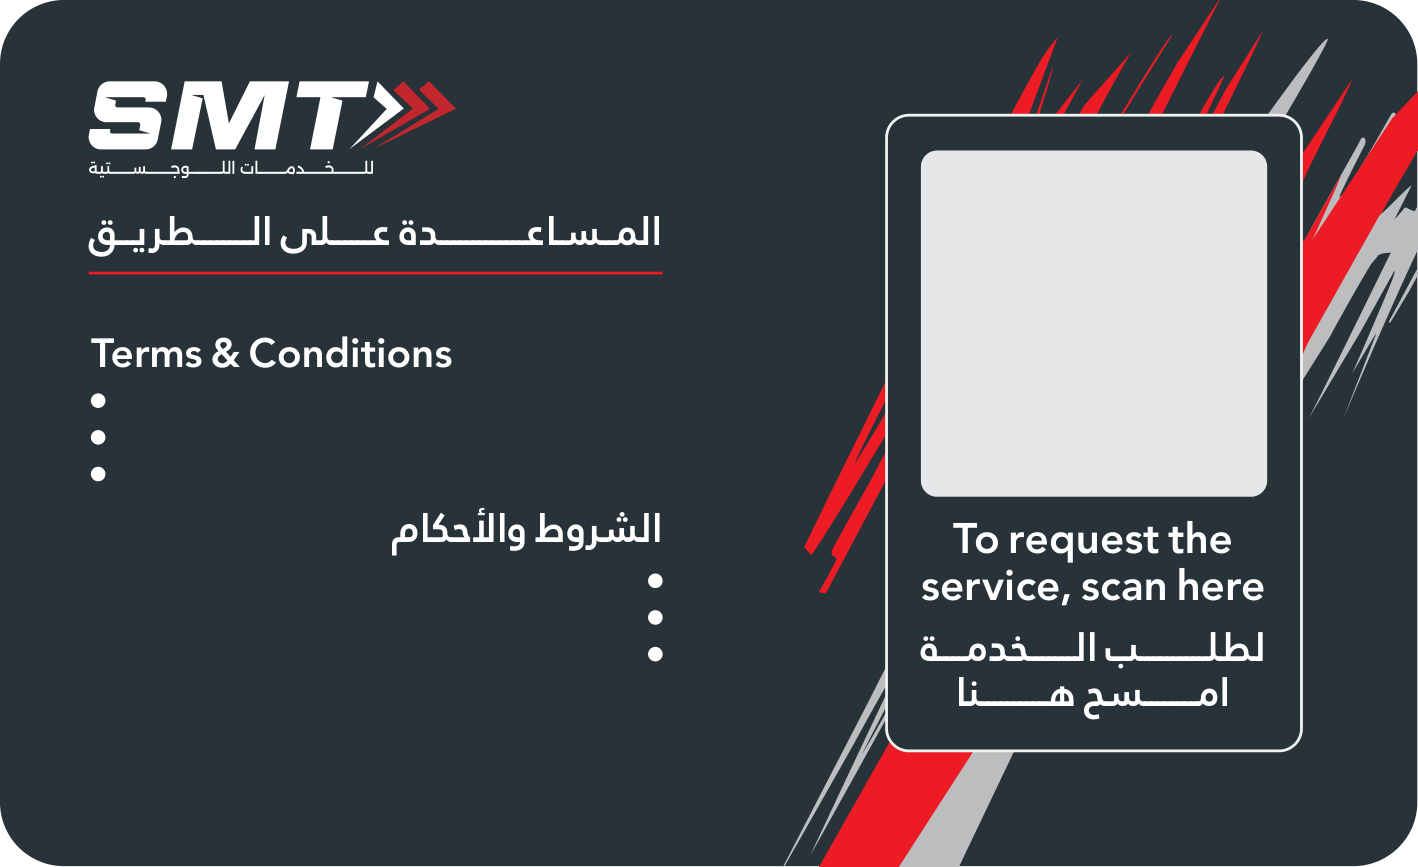
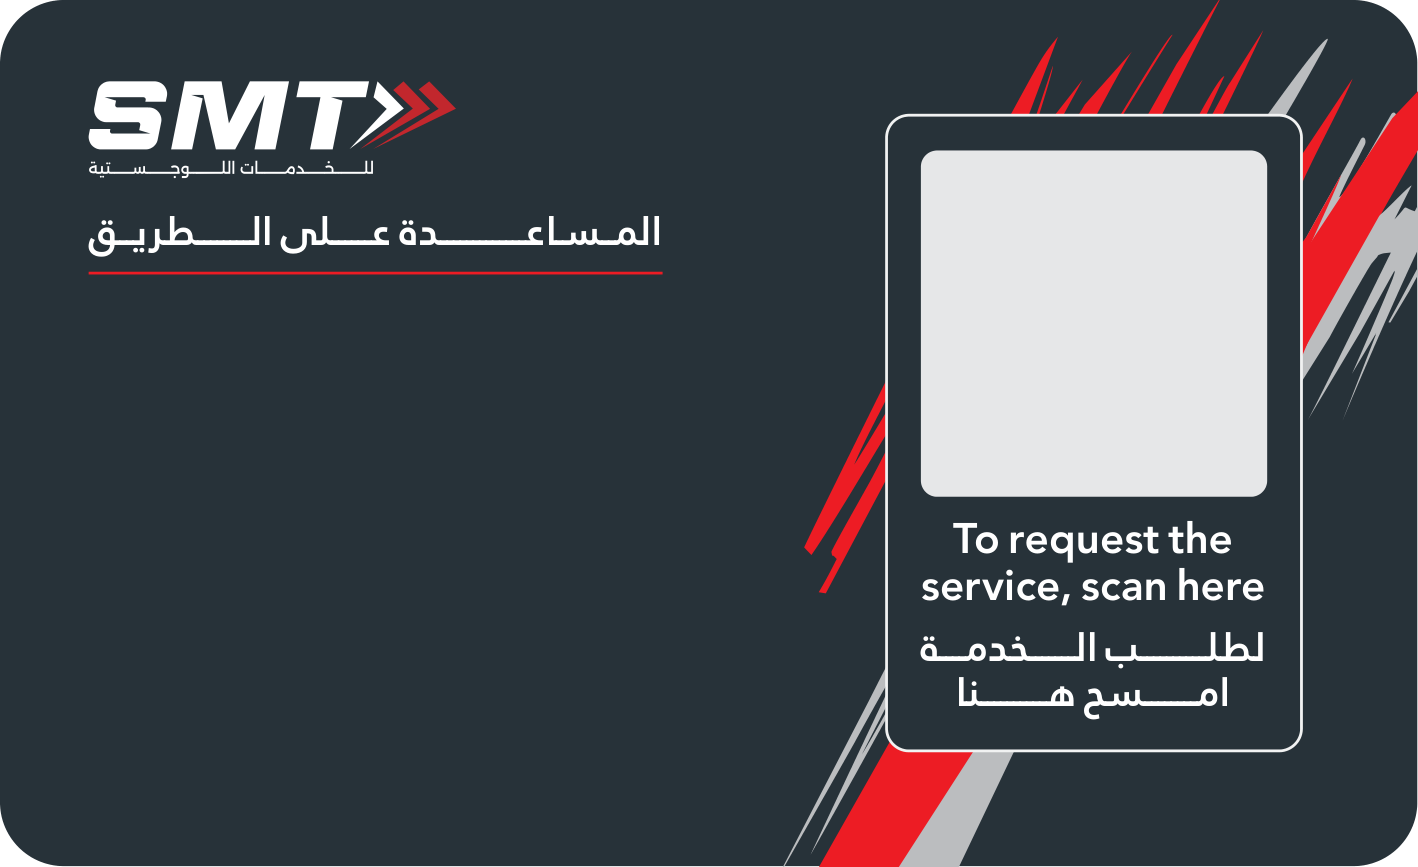
Add per-card bilingual terms to the printed card and a map button in JobBox
The card back now carries Terms & Conditions entered per card, one bullet per
line, in English, Arabic or both: each heading and its bullets are only printed
when that language has text, so a single-language card no longer prints an empty
heading over placeholder dots. The dots and both headings were baked into the
back artwork, so they are redacted out of the plate and drawn live instead, and
the block shrinks to fit when conditions are long. Both textareas are on every
card create/edit surface.

JobBox gains a pin button beside the Location field that unfolds the
cardholder's GPS point (with its accuracy) on an inline map plus a Google Maps
link — inline rather than a second modal, which Bootstrap does not support.
CARTO's basemaps now answer with an "API KEY REQUIRED" watermark, so both this
map and the request list's location modal switch to Esri's keyless tiles.

diff --git a/card/templates/cards/includes/mission_modal.html b/card/templates/cards/includes/mission_modal.html
@@ -50,8 +50,17 @@
                         <div class="row">
                             <div class="col-md-6 mb-3">
                                 <label for="from_location{{ request.pk }}" class="form-label fw-bold">Receiving Location</label>
-                                <input type="text" name="from_location" id="from_location{{ request.pk }}" class="form-control"
-                                       value="{% if request.mission %}{{ request.mission.from_location }}{% else %}{{ request.from_location }}{% endif %}">
+                                <div class="input-group">
+                                    <input type="text" name="from_location" id="from_location{{ request.pk }}" class="form-control"
+                                           value="{% if request.mission %}{{ request.mission.from_location }}{% else %}{{ request.from_location }}{% endif %}">
+                                    {% if request.latitude and request.longitude %}
+                                        <button type="button" class="btn btn-outline-info mission-map-btn" data-request="{{ request.pk }}"
+                                                data-lat="{{ request.latitude }}" data-lng="{{ request.longitude }}"
+                                                title="عرض موقع العميل على الخريطة">
+                                            <i class="bi bi-geo-alt-fill"></i>
+                                        </button>
+                                    {% endif %}
+                                </div>
                             </div>
                             <div class="col-md-6 mb-3">
                                 <label for="to_location{{ request.pk }}" class="form-label fw-bold">Delivery Location</label>
@@ -63,10 +72,38 @@
                         <!-- One location -->
                         <div class="mb-3">
                             <label for="from_location{{ request.pk }}" class="form-label fw-bold">Location</label>
-                            <input type="text" name="from_location" id="from_location{{ request.pk }}" class="form-control"
-                                   value="{% if request.mission %}{{ request.mission.from_location }}{% else %}{{ request.from_location }}{% endif %}">
+                            <div class="input-group">
+                                <input type="text" name="from_location" id="from_location{{ request.pk }}" class="form-control"
+                                       value="{% if request.mission %}{{ request.mission.from_location }}{% else %}{{ request.from_location }}{% endif %}">
+                                {% if request.latitude and request.longitude %}
+                                    <button type="button" class="btn btn-outline-info mission-map-btn" data-request="{{ request.pk }}"
+                                            data-lat="{{ request.latitude }}" data-lng="{{ request.longitude }}"
+                                            title="عرض موقع العميل على الخريطة">
+                                        <i class="bi bi-geo-alt-fill"></i>
+                                    </button>
+                                {% endif %}
+                            </div>
                         </div>
                         <input type="hidden" name="to_location" value="">
+                    {% endif %}
+
+                    <!-- Cardholder's GPS point, sent by the phone when the request was made.
+                         Kept inside this modal instead of opening a second one on top of it. -->
+                    {% if request.latitude and request.longitude %}
+                        <div class="mb-3 d-none" id="missionMapWrap{{ request.pk }}">
+                            <div id="missionMap{{ request.pk }}" style="height: 240px; border-radius: 8px;"></div>
+                            <div class="d-flex justify-content-between align-items-center mt-2 small">
+                                <span id="missionMapInfo{{ request.pk }}" class="text-muted">
+                                    موقع العميل وقت الطلب
+                                    {% if request.location_accuracy %}— دقة ±{{ request.location_accuracy|floatformat:0 }} م{% endif %}
+                                </span>
+                                <a class="btn btn-sm btn-primary"
+                                   href="https://www.google.com/maps/dir/?api=1&destination={{ request.latitude }},{{ request.longitude }}"
+                                   target="_blank" rel="noopener">
+                                    <i class="bi bi-signpost-split"></i> Google Maps
+                                </a>
+                            </div>
+                        </div>
                     {% endif %}
 
                     <!-- Cost -->
@@ -117,9 +154,39 @@
             return;
         }
 
+        // Toggle the inline map. Leaflet is loaded further down request_list.html, so it is
+        // only referenced here inside the click handler; if it is missing we hand the point
+        // to Google Maps instead of failing silently.
+        const mapBtn = document.querySelector('.mission-map-btn[data-request="{{ request.pk }}"]');
+        if (mapBtn) {
+            const lat = parseFloat(mapBtn.dataset.lat);
+            const lng = parseFloat(mapBtn.dataset.lng);
+            let map = null;
+            mapBtn.addEventListener('click', function() {
+                const wrap = document.getElementById('missionMapWrap{{ request.pk }}');
+                if (typeof L === 'undefined') {
+                    window.open('https://www.google.com/maps/search/?api=1&query=' + lat + ',' + lng, '_blank');
+                    return;
+                }
+                const wasHidden = wrap.classList.contains('d-none');
+                wrap.classList.toggle('d-none');
+                if (!wasHidden) return;
+                if (!map) {
+                    map = L.map('missionMap{{ request.pk }}').setView([lat, lng], 15);
+                    L.tileLayer('https://server.arcgisonline.com/ArcGIS/rest/services/World_Street_Map/MapServer/tile/{z}/{y}/{x}', {
+                        maxZoom: 19,
+                        attribution: 'Tiles &copy; Esri'
+                    }).addTo(map);
+                    L.marker([lat, lng]).addTo(map)
+                        .bindPopup('{{ request.card.customer.name|escapejs }}').openPopup();
+                }
+                setTimeout(function() { map.invalidateSize(); map.setView([lat, lng], 15); }, 150);
+            });
+        }
+
         form.addEventListener('submit', function(e) {
             e.preventDefault();
-            
+
             const originalText = submitBtn.innerHTML;
             submitBtn.innerHTML = '<span class="spinner-border spinner-border-sm"></span> Saving...';
             submitBtn.disabled = true;

diff --git a/card/templates/cards/card_print.html b/card/templates/cards/card_print.html
@@ -99,6 +99,60 @@
             white-space: nowrap;
         }
 
+        /* Terms area of the back artwork: starts under the red rule and stops above the
+           bottom edge, inside the same 103.3pt column the rule spans. Each language block
+           only exists when that language has text, so a single-language card fills the
+           whole area instead of leaving an empty heading behind. */
+        .terms {
+            position: absolute;
+            left: 16pt;
+            top: 55pt;
+            width: 103.3pt;
+            height: 81pt;
+            overflow: hidden;
+            font-size: 5.4pt;
+            line-height: 1.35;
+            text-align: left;
+        }
+        .terms-block + .terms-block { margin-top: 5pt; }
+        .terms-title {
+            font-size: 8pt;
+            font-weight: 700;
+            margin-bottom: 2.5pt;
+        }
+        .terms ul {
+            margin: 0;
+            padding: 0;
+            list-style: none;
+        }
+        .terms li {
+            position: relative;
+            padding-left: 6pt;
+            margin-bottom: 1.5pt;
+        }
+        .terms li::before {
+            content: '';
+            position: absolute;
+            left: 0;
+            top: 0.45em;
+            width: 2.62pt;
+            height: 2.62pt;
+            border-radius: 50%;
+            background: #ffffff;
+        }
+        .terms-ar {
+            direction: rtl;
+            text-align: right;
+        }
+        .terms-ar li {
+            padding-left: 0;
+            padding-right: 6pt;
+        }
+        .terms-ar li::before {
+            left: auto;
+            right: 0;
+        }
+
         /* Sits exactly on the light placeholder square of the back artwork. */
         .qr {
             position: absolute;
@@ -163,6 +217,30 @@
         <div class="side">
             <div class="side-label">Back — الوجه الخلفي</div>
             <div class="card card-back">
+                {% if card.terms_en or card.terms_ar %}
+                    <div class="terms">
+                        {% if card.terms_en %}
+                            <div class="terms-block">
+                                <div class="terms-title">Terms &amp; Conditions</div>
+                                <ul>
+                                    {% for line in card.terms_en.splitlines %}
+                                        {% if line.strip %}<li>{{ line }}</li>{% endif %}
+                                    {% endfor %}
+                                </ul>
+                            </div>
+                        {% endif %}
+                        {% if card.terms_ar %}
+                            <div class="terms-block terms-ar">
+                                <div class="terms-title">الشروط والأحكام</div>
+                                <ul>
+                                    {% for line in card.terms_ar.splitlines %}
+                                        {% if line.strip %}<li>{{ line }}</li>{% endif %}
+                                    {% endfor %}
+                                </ul>
+                            </div>
+                        {% endif %}
+                    </div>
+                {% endif %}
                 {% if card.qr_code %}
                     <div class="qr"><img src="{{ card.qr_code.url }}" alt="QR"></div>
                 {% endif %}
@@ -183,11 +261,27 @@
             });
         }
 
+        // Long or numerous conditions would overflow the artwork's terms column, so step
+        // the whole block down until both languages fit inside it.
+        function fitTerms() {
+            const box = document.querySelector('.terms');
+            if (!box) return;
+            let size = 5.4;
+            while (box.scrollHeight > box.clientHeight && size > 3.4) {
+                size -= 0.15;
+                box.style.fontSize = size.toFixed(2) + 'pt';
+                box.querySelectorAll('.terms-title').forEach(function(t) {
+                    t.style.fontSize = (size * 1.48).toFixed(2) + 'pt';
+                });
+            }
+        }
+
         // Wait for the artwork and fonts so the print preview is never missing them.
         window.addEventListener('load', function() {
             const ready = document.fonts ? document.fonts.ready : Promise.resolve();
             ready.then(function() {
                 fitValues();
+                fitTerms();
                 window.print();
             });
         });

diff --git a/card/templates/cards/includes/add_card_modal.html b/card/templates/cards/includes/add_card_modal.html
@@ -75,6 +75,17 @@
                                     <label for="modal_color_car" class="form-label fw-semibold">Car Color</label>
                                     <input type="text" name="color_car" id="modal_color_car" class="form-control" placeholder="e.g. White">
                                 </div>
+                                <div class="mb-2">
+                                    <label for="modal_terms_en" class="form-label fw-semibold">Terms &amp; Conditions (English)</label>
+                                    <textarea name="terms_en" id="modal_terms_en" class="form-control" rows="3"
+                                              placeholder="One condition per line"></textarea>
+                                </div>
+                                <div class="mb-2">
+                                    <label for="modal_terms_ar" class="form-label fw-semibold">الشروط والأحكام (عربي)</label>
+                                    <textarea name="terms_ar" id="modal_terms_ar" class="form-control" rows="3" dir="rtl"
+                                              placeholder="بند في كل سطر"></textarea>
+                                    <div class="form-text text-muted small">One condition per line. A language is printed on the back of the card only when it has text — fill in one or both.</div>
+                                </div>
                                 <div class="row">
                                     <div class="col-md-6 mb-2">
                                         <label for="modal_end_at" class="form-label fw-semibold">Card Expiration Date</label>

diff --git a/card/templates/cards/includes/add_card_with_quota_modal.html b/card/templates/cards/includes/add_card_with_quota_modal.html
@@ -75,6 +75,17 @@
                                     <label for="modal_color_car" class="form-label fw-semibold">Car Color</label>
                                     <input type="text" name="color_car" id="modal_color_car" class="form-control" placeholder="e.g. White">
                                 </div>
+                                <div class="mb-2">
+                                    <label for="modal_terms_en" class="form-label fw-semibold">Terms &amp; Conditions (English)</label>
+                                    <textarea name="terms_en" id="modal_terms_en" class="form-control" rows="3"
+                                              placeholder="One condition per line"></textarea>
+                                </div>
+                                <div class="mb-2">
+                                    <label for="modal_terms_ar" class="form-label fw-semibold">الشروط والأحكام (عربي)</label>
+                                    <textarea name="terms_ar" id="modal_terms_ar" class="form-control" rows="3" dir="rtl"
+                                              placeholder="بند في كل سطر"></textarea>
+                                    <div class="form-text text-muted small">One condition per line. A language is printed on the back of the card only when it has text — fill in one or both.</div>
+                                </div>
                                 <div class="row">
                                     <div class="col-md-6 mb-2">
                                         <label for="modal_end_at" class="form-label fw-semibold">Card Expiration Date</label>

diff --git a/card/templates/cards/includes/edit_card_modal.html b/card/templates/cards/includes/edit_card_modal.html
@@ -75,6 +75,19 @@
                                 </label>
                             </div>
                         </div>
+                        <div class="col-md-6 mb-3">
+                            <label for="id_terms_en_{{ card.pk }}" class="form-label fw-bold">Terms &amp; Conditions (English)</label>
+                            <textarea name="terms_en" id="id_terms_en_{{ card.pk }}" class="form-control" rows="3"
+                                      placeholder="One condition per line">{{ card.terms_en|default:'' }}</textarea>
+                        </div>
+                        <div class="col-md-6 mb-3">
+                            <label for="id_terms_ar_{{ card.pk }}" class="form-label fw-bold">الشروط والأحكام (عربي)</label>
+                            <textarea name="terms_ar" id="id_terms_ar_{{ card.pk }}" class="form-control" rows="3" dir="rtl"
+                                      placeholder="بند في كل سطر">{{ card.terms_ar|default:'' }}</textarea>
+                            <div class="form-text text-muted small">
+                                One condition per line. A language is printed on the back of the card only when it has text.
+                            </div>
+                        </div>
                     </div>
                 </div>
                 <div class="modal-footer">

diff --git a/card/templates/cards/card_form_with_quota.html b/card/templates/cards/card_form_with_quota.html
@@ -53,6 +53,18 @@
                                     {{ form.chassis_number }}
                                 </div>
 
+
+                                <div class="mb-3">
+                                    <label for="{{ form.terms_en.id_for_label }}" class="form-label fw-semibold">Terms &amp; Conditions (English)</label>
+                                    {{ form.terms_en }}
+                                </div>
+
+                                <div class="mb-3">
+                                    <label for="{{ form.terms_ar.id_for_label }}" class="form-label fw-semibold">الشروط والأحكام (عربي)</label>
+                                    {{ form.terms_ar }}
+                                    <div class="form-text text-muted small">One condition per line. A language is printed on the back of the card only when it has text — fill in one or both.</div>
+                                </div>
+
                                 <div class="row">
                                     <div class="col-md-6 mb-3">
                                         <label for="{{ form.end_at.id_for_label }}" class="form-label fw-semibold">Card Expiration Date</label>

diff --git a/card/templates/cards/request_list.html b/card/templates/cards/request_list.html
@@ -168,12 +168,12 @@
             currentMap = null;
         }
         currentMap = L.map('locationMap').setView([custLat, custLng], 13);
-        // OSM's own tile.openstreetmap.org now blocks most direct/embedded referers (403 "Access blocked").
-        // CARTO's basemap tiles are free to embed directly and don't enforce a referer allowlist.
-        L.tileLayer('https://{s}.basemaps.cartocdn.com/light_all/{z}/{x}/{y}{r}.png', {
+        // OSM's own tile.openstreetmap.org blocks most direct/embedded referers (403 "Access blocked"),
+        // and CARTO's basemaps now answer with an "API KEY REQUIRED" watermark. Esri's World Street Map
+        // still serves plain tiles without a key.
+        L.tileLayer('https://server.arcgisonline.com/ArcGIS/rest/services/World_Street_Map/MapServer/tile/{z}/{y}/{x}', {
             maxZoom: 19,
-            subdomains: 'abcd',
-            attribution: '&copy; OpenStreetMap contributors &copy; CARTO'
+            attribution: 'Tiles &copy; Esri'
         }).addTo(currentMap);
 
         L.marker([custLat, custLng]).addTo(currentMap)

diff --git a/card/forms.py b/card/forms.py
@@ -36,7 +36,8 @@ class CustomerForm(forms.ModelForm):
 class CardForm(forms.ModelForm):
     class Meta:
         model = Card
-        fields = ['customer', 'category', 'showroom', 'vehicle_number', 'chassis_number', 'type_car', 'color_car', 'end_at', 'is_active']
+        fields = ['customer', 'category', 'showroom', 'vehicle_number', 'chassis_number', 'type_car', 'color_car',
+                  'end_at', 'is_active', 'terms_en', 'terms_ar']
         widgets = {
             'customer': forms.Select(attrs={'class': 'form-select'}),
             'category': forms.Select(attrs={'class': 'form-select', 'data-category-id': ''}),
@@ -55,6 +56,14 @@ class CardForm(forms.ModelForm):
             'color_car': forms.TextInput(attrs={'class': 'form-control', 'placeholder': 'e.g. White'}),
             'end_at': forms.DateInput(attrs={'class': 'form-control', 'type': 'date'}),
             'is_active': forms.CheckboxInput(attrs={'class': 'form-check-input'}),
+            'terms_en': forms.Textarea(attrs={
+                'class': 'form-control', 'rows': 4,
+                'placeholder': 'One condition per line, e.g.\nValid inside Jordan only\nNon-transferable',
+            }),
+            'terms_ar': forms.Textarea(attrs={
+                'class': 'form-control', 'rows': 4, 'dir': 'rtl',
+                'placeholder': 'بند في كل سطر، مثال:\nالخدمة داخل الأردن فقط\nالبطاقة غير قابلة للتحويل',
+            }),
         }
 
     def __init__(self, *args, **kwargs):
@@ -68,6 +77,10 @@ class CardForm(forms.ModelForm):
         self.fields['is_active'].label = "Active card"
         self.fields['chassis_number'].validators.append(validate_vin)
         self.fields['chassis_number'].required = False
+        self.fields['terms_en'].required = False
+        self.fields['terms_ar'].required = False
+        self.fields['terms_en'].label = "Terms & Conditions (English)"
+        self.fields['terms_ar'].label = "الشروط والأحكام (عربي)"
 
 class ShowroomForm(forms.ModelForm):
     class Meta:

diff --git a/card/models.py b/card/models.py
@@ -116,6 +116,10 @@ class Card(models.Model):
     chassis_number = models.CharField(max_length=50, null=True, blank=True)
     type_car = models.CharField(max_length=100, null=True, blank=True)
     color_car = models.CharField(max_length=50, null=True, blank=True)
+    # Printed on the back of the card, one bullet per line. Each language prints only
+    # when it has text, so a card can carry Arabic terms, English terms, or both.
+    terms_en = models.TextField(blank=True, null=True, help_text="Terms & Conditions in English - one condition per line")
+    terms_ar = models.TextField(blank=True, null=True, help_text="الشروط والأحكام بالعربية - بند في كل سطر")
     qr_code = models.ImageField(upload_to="cards/qr/", blank=True, null=True)
     category = models.ForeignKey(CategoryCard, on_delete=models.SET_NULL, null=True, blank=True, related_name='cards')
     showroom = models.ForeignKey(Showroom, on_delete=models.SET_NULL, null=True, blank=True, related_name='cards', help_text="Leave blank for an individual card")

diff --git a/card/migrations/0028_card_terms_ar_card_terms_en.py b/card/migrations/0028_card_terms_ar_card_terms_en.py
@@ -1,0 +1,23 @@
+# Generated by Django 5.2.16 on 2026-09-13 12:36
+
+from django.db import migrations, models
+
+
+class Migration(migrations.Migration):
+
+    dependencies = [
+        ('card', '0027_serviceinvoice_payment_method'),
+    ]
+
+    operations = [
+        migrations.AddField(
+            model_name='card',
+            name='terms_ar',
+            field=models.TextField(blank=True, help_text='الشروط والأحكام بالعربية - بند في كل سطر', null=True),
+        ),
+        migrations.AddField(
+            model_name='card',
+            name='terms_en',
+            field=models.TextField(blank=True, help_text='Terms & Conditions in English - one condition per line', null=True),
+        ),
+    ]
